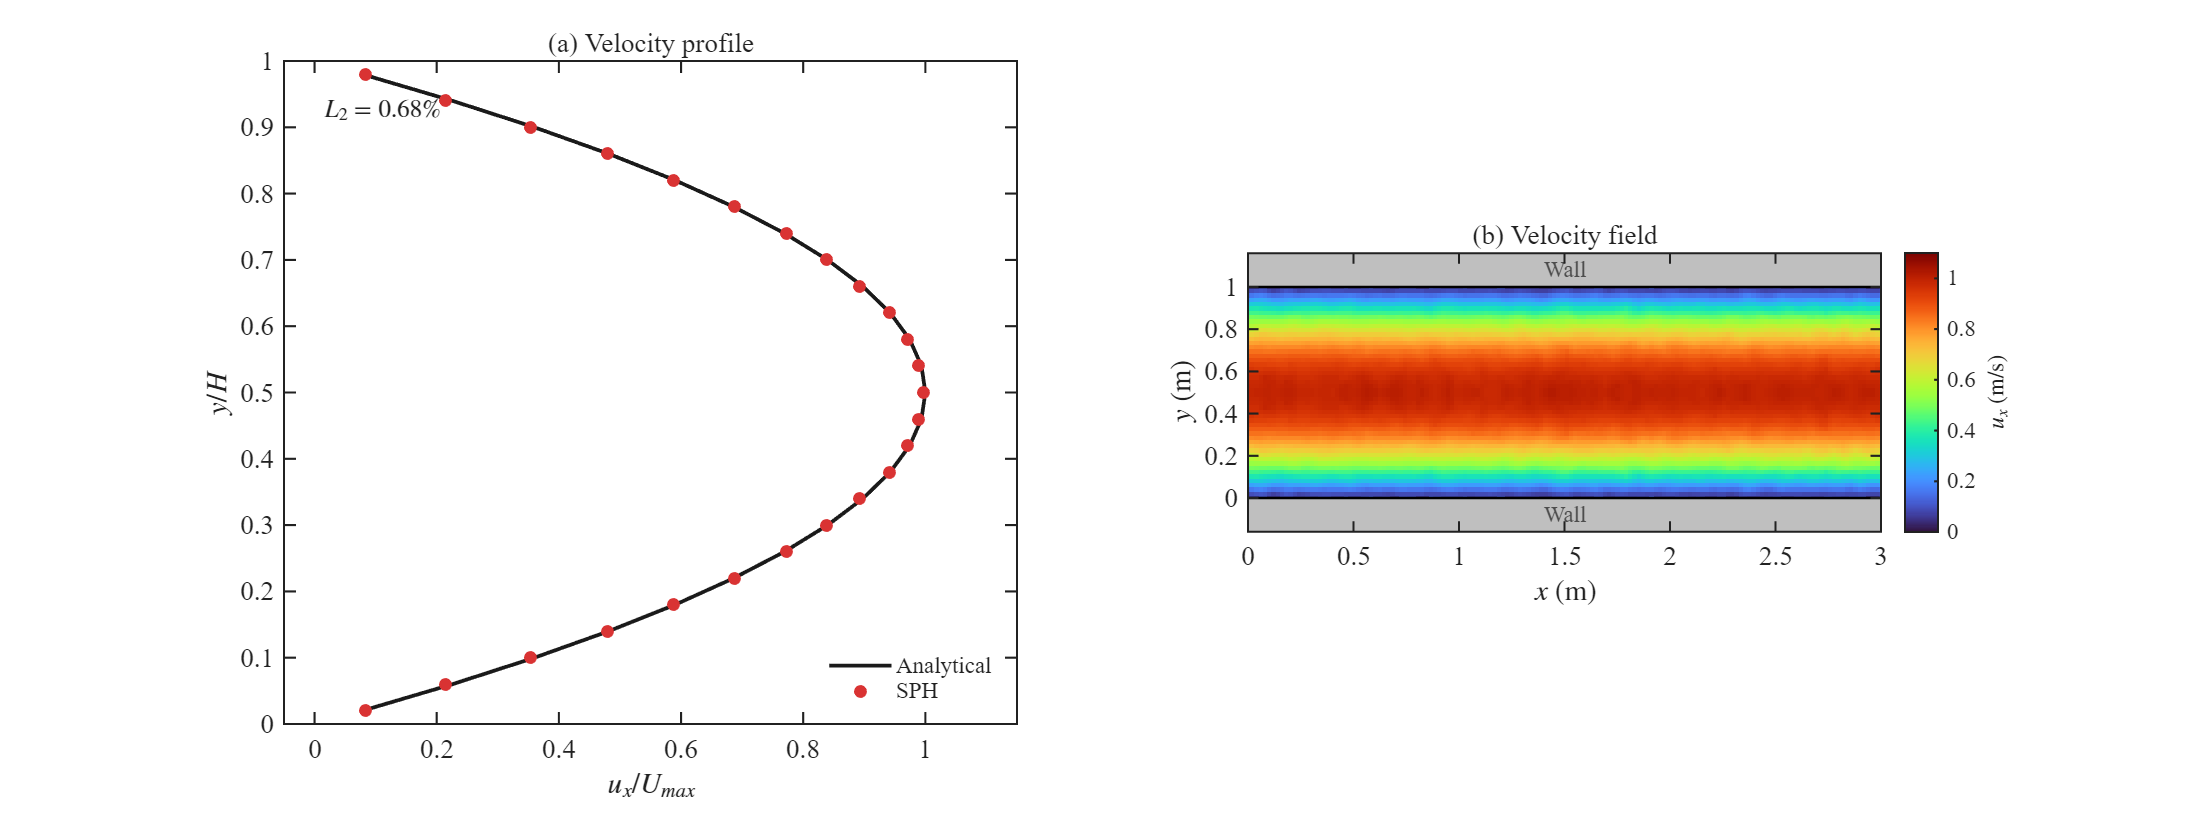
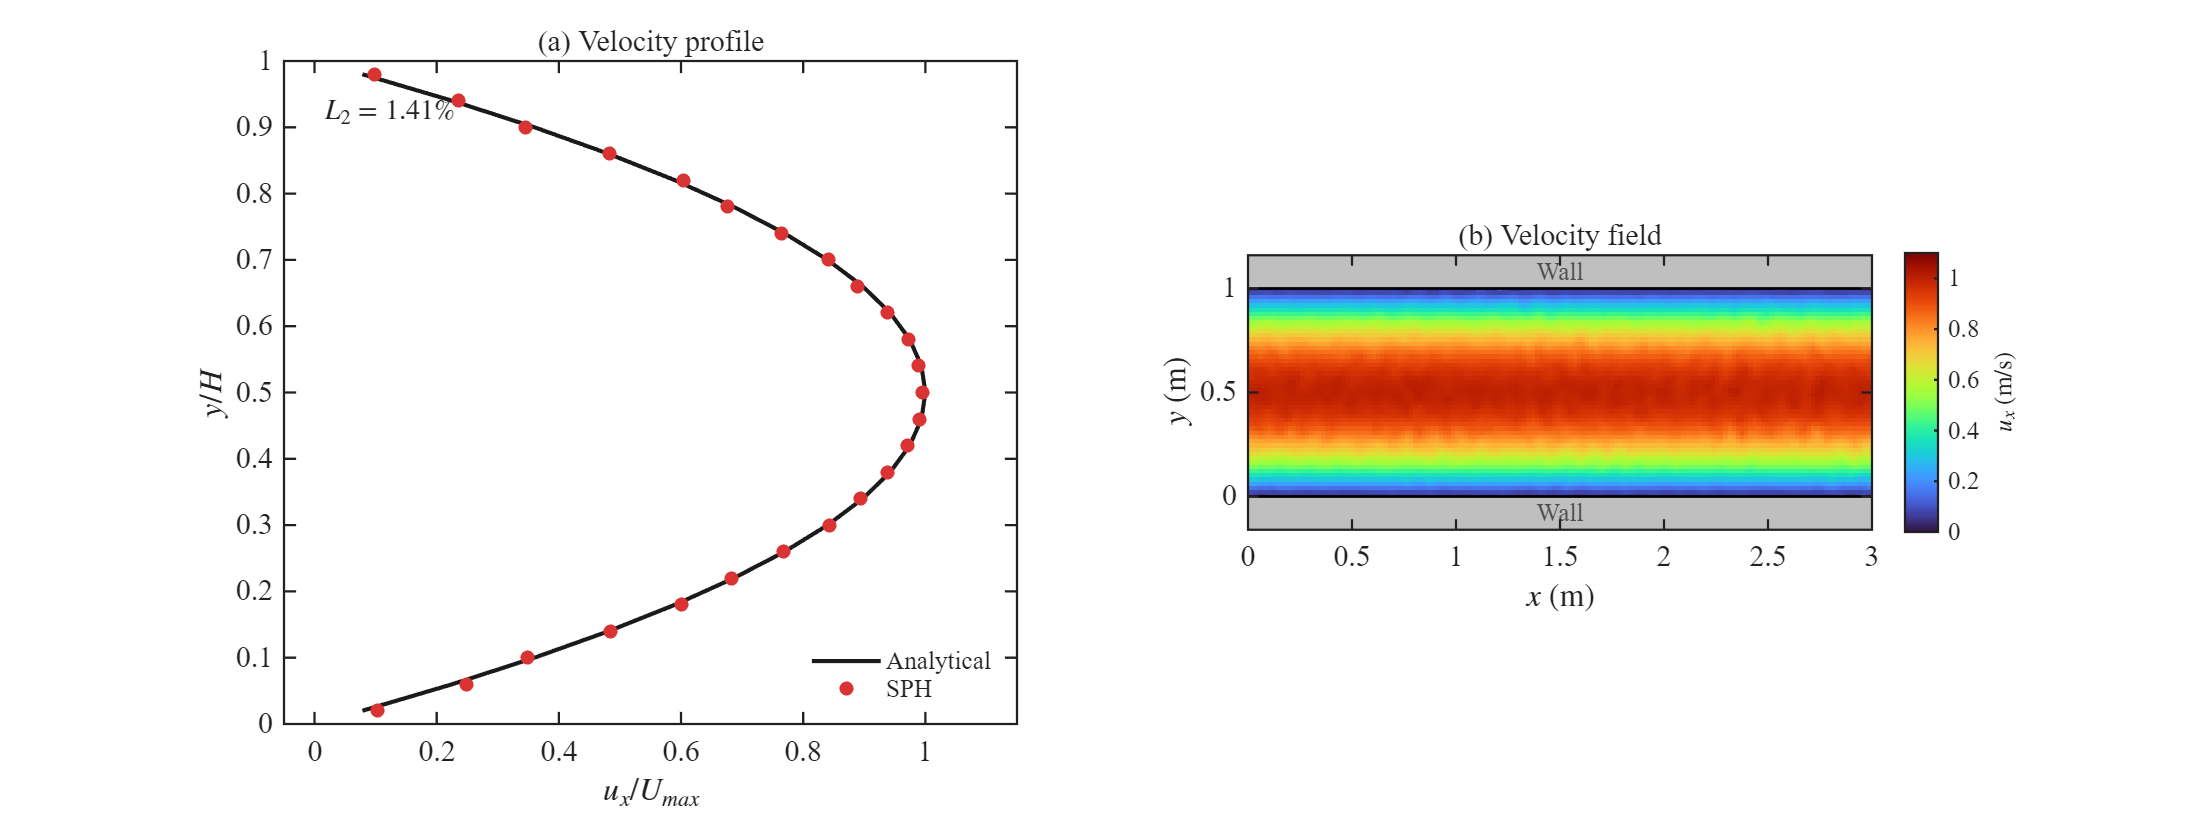
feat(poiseuille): 增加可切换壁面边界模式与中截面剖面演化输出
变更内容：
- 在 MATLAB 主流程中增加 bc_mode 配置，支持方案 B 与方案 D 两种壁面边界处理。
- 在 MEX 粘性力计算中增加 Neumann 边界相关可选参数与对应分支。
- 新增中间截面速度剖面演化图输出，并调整部分仿真配置与忽略规则。

风险与影响：
- 影响 MATLAB 主求解脚本、MEX 粘性力实现和仿真配置。
- 当前 GitNexus 检测为 medium risk，影响集中在积分与粘性力计算流程。

diff --git a/SPH_Poiseuille.m b/SPH_Poiseuille.m
@@ -18,6 +18,7 @@ mex_dir = fullfile(project_dir, 'mex');         % MEX C 源码目录
 config_path = fullfile(project_dir, 'config.ini');
 restart_path = fullfile(project_dir, 'restart.mat');
 result_png = fullfile(project_dir, 'SPH_Poiseuille_result.png');
+profile_evolution_png = fullfile(project_dir, 'SPH_centerline_profile_evolution.png');
 
 if ~exist(build_dir, 'dir')
     mkdir(build_dir);
@@ -47,6 +48,11 @@ t_end = get_ini_numeric(cfg, 'simulation', 'end_time');
 output_interval = get_ini_numeric(cfg, 'simulation', 'output_interval');
 sort_interval = round(get_ini_numeric(cfg, 'simulation', 'sort_interval'));
 restart_from_file = round(get_ini_numeric(cfg, 'simulation', 'restart_from_file'));
+bc_mode = get_ini_string(cfg, 'simulation', 'bc_mode');  % 'B' 或 'D'
+if ~ismember(bc_mode, {'B', 'D'})
+    error('bc_mode 必须为 B 或 D，当前值: %s', bc_mode);
+end
+fprintf('BC 模式: 方案%s\n', bc_mode);
 
 % 几何参数自动对齐：确保 DL/dp 和 DH/dp 为整数（周期边界 + 均匀粒子排列）
 DL_raw = DL;  DH_raw = DH;
@@ -174,15 +180,33 @@ end
 p(1:n_fluid) = p0 * (rho(1:n_fluid) ./ rho0 - 1.0);
 p(n_fluid+1:end) = 0.0;
 
-% 方案 B：pair-wise 测量 tau_num + PI 输出 delta_tau 叠加到 force_prior
+% 壁面切应力目标值（两种方案共用）
 tau_target = gravity_g * rho0 * DH / 2;  % 泊肃叶流壁面切应力解析值 [Pa]
-I_bottom = 0.0;         % 积分项（下壁面）
-I_top    = 0.0;         % 积分项（上壁面）
-I_max    = 2.0;         % 积分限幅
 tau_num_bottom = 0.0;   % 监控变量初始化
 tau_num_top    = 0.0;
-k_p = 0.5;              % PI 比例增益（delta_tau = k_p * e [Pa]，K_F≈1 故保守取 0.5）
-k_i = 0.025;            % PI 积分增益
+
+if strcmp(bc_mode, 'B')
+    % 方案 B：PI 控制器参数
+    I_bottom = 0.0;     % 积分项（下壁面）
+    I_top    = 0.0;     % 积分项（上壁面）
+    I_max    = 2.0;     % 积分限幅
+    k_p = 0.5;          % PI 比例增益
+    k_i = 0.025;        % PI 积分增益
+else
+    % 方案 D：无需 PI 参数，wall_vel 每步由 Adami 插值动态设定
+    I_bottom = 0.0; I_top = 0.0; k_p = 0.0; k_i = 0.0; I_max = 0.0;  % 占位，restart 兼容
+end
+
+% 槽道中间截面（x=DL/2）速度剖面演化记录：每个输出时刻保留一条 u(y)
+n_bins = max(20, round(DH / dp));
+mid_x = 0.5 * DL;
+mid_half_width = max(dp, h);
+profile_times = zeros(0, 1);
+mid_profile_u = NaN(n_bins, 0);
+[~, u_mid_init] = compute_mid_channel_profile( ...
+    pos(1:n_fluid, :), vel(1:n_fluid, 1), DL, DH, mid_x, mid_half_width, n_bins);
+profile_times(end + 1, 1) = t;
+mid_profile_u(:, end + 1) = u_mid_init;
 
 %% S6: 主循环（双层时间步进：外层对流步 + 内层声学步）
 % 外层：计算粘性力、传输修正、对流时间步长 Dt
@@ -208,14 +232,21 @@ while t < t_end - 1e-12
             mass, n_fluid, n_total, rho0, h, inv_sigma0);
 
         % 粘性力计算（含壁面无滑移镜像速度）
-        viscous_force = feval(physics_mex_name, 'viscous_force', ...
-            pair_i, pair_j, dx_ij, dy_ij, r_ij, dW_ij, ...
-            vel, Vol, B, mu, h, n_fluid, n_total, mass, wall_vel);
+        if strcmp(bc_mode, 'D')
+            viscous_force = feval(physics_mex_name, 'viscous_force', ...
+                pair_i, pair_j, dx_ij, dy_ij, r_ij, dW_ij, ...
+                vel, Vol, B, mu, h, n_fluid, n_total, mass, wall_vel, ...
+                pos, tau_target/mu, DH);
+        else
+            viscous_force = feval(physics_mex_name, 'viscous_force', ...
+                pair_i, pair_j, dx_ij, dy_ij, r_ij, dW_ij, ...
+                vel, Vol, B, mu, h, n_fluid, n_total, mass, wall_vel);
+        end
         force_prior = viscous_force;
         force_prior(1:n_fluid, 1) = force_prior(1:n_fluid, 1) + mass(1:n_fluid) * gravity_g;  % 叠加体积力
 
+        if strcmp(bc_mode, 'B')
         % === 方案 B：pair-wise tau 测量 + PI 输出 delta_tau 叠加 force_prior ===
-        % 下壁面：识别流固粒子对（j 是壁面粒子且 y_j < 0）
         is_bottom = (pair_j > n_fluid) & (pos(pair_j, 2) < 0);
         i_b = pair_i(is_bottom);
         j_b = pair_j(is_bottom);
@@ -232,8 +263,6 @@ while t < t_end - 1e-12
         else
             tau_num_bottom = 0.0;
         end
-
-        % 上壁面：识别流固粒子对（j 是壁面粒子且 y_j > DH）
         is_top = (pair_j > n_fluid) & (pos(pair_j, 2) > DH);
         i_t = pair_i(is_top);
         j_t = pair_j(is_top);
@@ -250,21 +279,54 @@ while t < t_end - 1e-12
         else
             tau_num_top = 0.0;
         end
-
-        % PI 更新：下壁面 → delta_tau_b [Pa] → 叠加到近壁流体粒子 force_prior
         e_b = tau_target - tau_num_bottom;
         I_bottom = max(-I_max, min(I_max, I_bottom + e_b * Dt));
         delta_tau_b = k_p * e_b + k_i * I_bottom;
         near_bottom = pos(1:n_fluid, 2) < 2*h;
         force_prior(near_bottom, 1) = force_prior(near_bottom, 1) + delta_tau_b * dp^2;
-
-        % PI 更新：上壁面 → delta_tau_t [Pa] → 叠加到近壁流体粒子 force_prior
         e_t = tau_target - tau_num_top;
         I_top = max(-I_max, min(I_max, I_top + e_t * Dt));
         delta_tau_t = k_p * e_t + k_i * I_top;
         near_top = pos(1:n_fluid, 2) > DH - 2*h;
         force_prior(near_top, 1) = force_prior(near_top, 1) + delta_tau_t * dp^2;
         % === 方案 B 结束 ===
+
+        else
+        % === 方案 D：wall_vel 置零，MEX 内部用显式镜像+梯度修正 ===
+        % u_ghost = -v_i ± G*d_j，u_wall=0 精确锚定，梯度通过虚粒子施加
+        wall_vel(n_fluid+1:end, :) = 0;
+        % 监控：pair-wise 测量下壁面和上壁面 tau_num（仅用于输出）
+        is_bottom = (pair_j > n_fluid) & (pos(pair_j, 2) < 0);
+        i_b = pair_i(is_bottom); j_b = pair_j(is_bottom);
+        if ~isempty(i_b)
+            r_b = r_ij(is_bottom); dW_b = dW_ij(is_bottom);
+            dx_b = dx_ij(is_bottom); dy_b = dy_ij(is_bottom);
+            ex_b = dx_b./r_b; ey_b = dy_b./r_b;
+            eBe_b = ex_b.*(B(i_b,1).*ex_b+B(i_b,2).*ey_b) + ...
+                    ey_b.*(B(i_b,3).*ex_b+B(i_b,4).*ey_b);
+            f_pair_b = 4*mu.*eBe_b.*dW_b.*Vol(j_b).*(vel(i_b,1)-wall_vel(j_b,1)) ...
+                       ./(r_b+0.01*h).*Vol(i_b);
+            tau_num_bottom = -sum(f_pair_b) / DL;
+        else
+            tau_num_bottom = 0.0;
+        end
+        is_top = (pair_j > n_fluid) & (pos(pair_j, 2) > DH);
+        i_t = pair_i(is_top); j_t = pair_j(is_top);
+        if ~isempty(i_t)
+            r_t = r_ij(is_top); dW_t = dW_ij(is_top);
+            dx_t = dx_ij(is_top); dy_t = dy_ij(is_top);
+            ex_t = dx_t./r_t; ey_t = dy_t./r_t;
+            eBe_t = ex_t.*(B(i_t,1).*ex_t+B(i_t,2).*ey_t) + ...
+                    ey_t.*(B(i_t,3).*ex_t+B(i_t,4).*ey_t);
+            f_pair_t = 4*mu.*eBe_t.*dW_t.*Vol(j_t).*(vel(i_t,1)-wall_vel(j_t,1)) ...
+                       ./(r_t+0.01*h).*Vol(i_t);
+            tau_num_top = sum(f_pair_t) / DL;
+        else
+            tau_num_top = 0.0;
+        end
+        e_b = tau_target - tau_num_bottom;  % 仅用于日志
+        % === 方案 D 结束 ===
+        end
 
         % 传输速度修正（抑制张力不稳定性）
         pos = feval(physics_mex_name, 'transport_correction', ...
@@ -307,10 +369,15 @@ while t < t_end - 1e-12
             relaxation_time = relaxation_time + dt;
         end
 
-        % 对流步结束：周期性边界 + 壁面防穿透 + 壁面速度重置（wall_vel 恒零，无滑移）
+        % 对流步结束：周期性边界 + 壁面防穿透
         [pos, ~] = periodic_bounding(pos, n_fluid, DL, periodic_buffer);
         pos = bounding_from_wall(pos, n_fluid, DH, dp);
-        vel(n_fluid+1:end, :) = wall_vel(n_fluid+1:end, :);
+        % 方案B：wall_vel 恒零，重置虚粒子速度；方案D：wall_vel 已动态设定，保持不变
+        if strcmp(bc_mode, 'B')
+            vel(n_fluid+1:end, :) = zeros(n_wall, 2);
+        else
+            vel(n_fluid+1:end, :) = wall_vel(n_fluid+1:end, :);
+        end
 
         % 定期按空间网格排序粒子（提升缓存命中率）
         if mod(step, sort_interval) == 0 && step ~= 1
@@ -325,8 +392,13 @@ while t < t_end - 1e-12
             vmax = max(vecnorm(vel(1:n_fluid, :), 2, 2));
             fprintf('step=%d, t=%.6f/%.6f, Dt=%.4e, pairs=%d, vmax=%.4f\n', ...
                 step, t, t_end, Dt, numel(pair_i), vmax);
-            fprintf('  tau_bot=%.4f, tau_top=%.4f, tau_target=%.4f, e_b=%.4f\n', ...
-                tau_num_bottom, tau_num_top, tau_target, e_b);
+            if strcmp(bc_mode, 'B')
+                fprintf('  [B] tau_bot=%.4f, tau_top=%.4f, tau_target=%.4f, e_b=%.4f\n', ...
+                    tau_num_bottom, tau_num_top, tau_target, e_b);
+            else
+                fprintf('  [D] tau_bot=%.4f, tau_top=%.4f, tau_target=%.4f, e_b=%.4f\n', ...
+                    tau_num_bottom, tau_num_top, tau_target, e_b);
+            end
         end
     end
 
@@ -346,6 +418,11 @@ while t < t_end - 1e-12
         'k_p', k_p, ...
         'k_i', k_i);
     save_restart(restart_path, config_signature, state);
+
+    [~, u_mid_now] = compute_mid_channel_profile( ...
+        pos(1:n_fluid, :), vel(1:n_fluid, 1), DL, DH, mid_x, mid_half_width, n_bins);
+    profile_times(end + 1, 1) = t;
+    mid_profile_u(:, end + 1) = u_mid_now;
 end
 
 %% S7: 后处理与验证
@@ -354,7 +431,6 @@ fluid_pos = pos(1:n_fluid, :);
 fluid_pos(:, 1) = mod(fluid_pos(:, 1), DL);
 fluid_vel = vel(1:n_fluid, :);
 
-n_bins = max(20, round(DH / dp));
 [y_mid, u_mean] = compute_binned_profile_mean(fluid_pos(:, 2), fluid_vel(:, 1), 0.0, DH, n_bins);
 % 无滑移 BC 下解析解：标准抛物线
 u_exact = gravity_g / (2.0 * nu) .* y_mid .* (DH - y_mid);
@@ -478,6 +554,53 @@ title(ax2, '(b) Velocity field', 'FontName', 'Times New Roman', ...
 saveas(fig, result_png);
 fprintf('结果图已保存: %s\n', result_png);
 
+% --- 中间截面速度剖面演化图（每个时间一条剖面） ---
+fig_evo = figure('Color', 'w', 'Position', [140, 140, 760, 560], 'Renderer', 'painters');
+ax_evo = axes(fig_evo);
+hold(ax_evo, 'on');
+
+tvals = profile_times(:)';
+n_profiles = numel(tvals);
+line_cmap = parula(max(n_profiles, 2));
+
+for k = 1:n_profiles
+    u_k = mid_profile_u(:, k) / U_max;
+    valid_k = ~isnan(u_k);
+    if any(valid_k)
+        plot(ax_evo, u_k(valid_k), y_mid(valid_k) / DH, '-', ...
+            'Color', line_cmap(k, :), 'LineWidth', 1.0);
+    end
+end
+
+plot(ax_evo, u_norm_exact, y_norm, '--', 'Color', [0.1 0.1 0.1], 'LineWidth', 1.6);
+hold(ax_evo, 'off');
+
+set(ax_evo, 'FontName', 'Times New Roman', 'FontSize', 13, 'LineWidth', 1.0, ...
+    'TickDir', 'in', 'TickLength', [0.015 0.015], 'Box', 'on');
+xlabel(ax_evo, '$u_x / U_{max}$', 'Interpreter', 'latex', 'FontSize', 14);
+ylabel(ax_evo, '$y / H$', 'Interpreter', 'latex', 'FontSize', 14);
+xlim(ax_evo, [-0.05, 1.15]);
+ylim(ax_evo, [0, 1]);
+title(ax_evo, '(c) Mid-channel profile evolution', 'FontName', 'Times New Roman', ...
+    'FontSize', 13, 'FontWeight', 'normal');
+
+colormap(ax_evo, line_cmap);
+t_min = min(tvals);
+t_max = max(tvals);
+if t_max <= t_min
+    t_max = t_min + 1.0;
+end
+caxis(ax_evo, [t_min, t_max]);
+cb_evo = colorbar(ax_evo);
+cb_evo.Label.String = '$t$ (s)';
+cb_evo.Label.Interpreter = 'latex';
+cb_evo.Label.FontSize = 12;
+set(cb_evo, 'FontName', 'Times New Roman', 'FontSize', 11, ...
+    'TickDirection', 'in', 'LineWidth', 1.0);
+
+saveas(fig_evo, profile_evolution_png);
+fprintf('中间截面剖面演化图已保存: %s\n', profile_evolution_png);
+
 %% Local Functions
 function ensure_mex_compiled(src_path, out_name, build_dir)
     if ~exist(src_path, 'file')
@@ -568,6 +691,20 @@ function cfg = parse_ini(filename)
             cfg.(section).(key) = val_raw;
         end
     end
+end
+
+function value = get_ini_string(cfg, section, key)
+    if ~isfield(cfg, section)
+        error('缺少段: [%s]', section);
+    end
+    if ~isfield(cfg.(section), key)
+        error('缺少键: [%s].%s', section, key);
+    end
+    value = cfg.(section).(key);
+    if ~ischar(value)
+        value = num2str(value);
+    end
+    value = strtrim(value);
 end
 
 function value = get_ini_numeric(cfg, section, key)
@@ -686,6 +823,21 @@ function [y_mid, u_mean] = compute_binned_profile_mean(y_values, u_values, y_min
     cnt_u = accumarray(bin_id(~isnan(bin_id)), 1, [n_bins, 1], @sum, 0);
     u_mean = sum_u ./ max(cnt_u, 1);
     u_mean(cnt_u == 0) = NaN;
+end
+
+function [y_mid, u_mean] = compute_mid_channel_profile(pos, u_x, DL, DH, mid_x, half_width, n_bins)
+% 提取 x=mid_x 附近竖向切片上的 u(y) 速度剖面
+    x_wrap = mod(pos(:, 1), DL);
+    dx_mid = abs(x_wrap - mid_x);
+    dx_mid = min(dx_mid, DL - dx_mid);
+    is_mid = (dx_mid <= half_width);
+
+    if ~any(is_mid)
+        [y_mid, u_mean] = compute_binned_profile_mean([], [], 0.0, DH, n_bins);
+        return;
+    end
+
+    [y_mid, u_mean] = compute_binned_profile_mean(pos(is_mid, 2), u_x(is_mid), 0.0, DH, n_bins);
 end
 
 function save_restart(restart_path, config_signature, state)

diff --git a/mex/sph_physics_mex.c b/mex/sph_physics_mex.c
@@ -409,9 +409,14 @@ static void mode_viscous_force(int nlhs, mxArray *plhs[], int nrhs, const mxArra
     double *acc_x;
     double *acc_y;
     int k;  /* Changed from mwSize to int for OpenMP compatibility */
+    /* 方案D可选参数：pos[n_total×2], G=tau/mu, DH */
+    int use_neumann = 0;
+    const double *pos_arr = NULL;
+    double G_neumann = 0.0;
+    double DH_neumann = 0.0;
 
-    require_count(nrhs == 16, "SPH:Physics:viscous:nrhs",
-                  "viscous_force expects 16 inputs after mode.");
+    require_count(nrhs == 16 || nrhs == 19, "SPH:Physics:viscous:nrhs",
+                  "viscous_force expects 16 or 19 inputs after mode.");
     require_count(nlhs == 1, "SPH:Physics:viscous:nlhs",
                   "viscous_force expects 1 output.");
 
@@ -437,6 +442,14 @@ static void mode_viscous_force(int nlhs, mxArray *plhs[], int nrhs, const mxArra
                   "SPH:Physics:viscous:mass", "mass size mismatch.");
     require_count(mxGetM(prhs[15]) == (mwSize)n_total && mxGetN(prhs[15]) == 2,
                   "SPH:Physics:viscous:wallvel", "wall_vel size mismatch.");
+
+    /* 方案D：可选 Neumann BC 参数 */
+    if (nrhs == 19) {
+        pos_arr    = mxGetDoubles(prhs[16]);
+        G_neumann  = mxGetScalar(prhs[17]);
+        DH_neumann = mxGetScalar(prhs[18]);
+        use_neumann = 1;
+    }
 
     plhs[0] = mxCreateDoubleMatrix(n_total, 2, mxREAL);
     force_out = mxGetDoubles(plhs[0]);
@@ -509,10 +522,32 @@ static void mode_viscous_force(int nlhs, mxArray *plhs[], int nrhs, const mxArra
         } else {
             double eBe = ex * (b11i * ex + b12i * ey) + ey * (b21i * ex + b22i * ey);
             double denom = rk + 0.01 * h;
-            double dvx = vel_x[ii] - wall_vel_x[jj];
-            double dvy = vel_y[ii] - wall_vel_y[jj];
-            double coeff = 4.0 * eBe * mu * dWk * Vol[jj] / denom;
-
+            double dvx, dvy, coeff;
+            if (use_neumann) {
+                /* 方案D：显式 Adami 镜像 + Neumann 梯度修正，严格保证 u_wall=0
+                 * pos 列优先：pos_x=pos_arr[jj], pos_y=pos_arr[jj+n_total]
+                 * 下壁面(y_j<0)：u_ghost = -u_tilde - G*d_j
+                 *   → u_wall = (u_ghost+u_tilde)/2 = -G*d_j/2 ≈ 0（d_j→0时精确）
+                 *   实际用 u_ghost = -vel_x[ii] - G*d_j（u_tilde≈vel_x[ii]）
+                 * 上壁面(y_j>DH)：u_ghost = -u_tilde + G*d_j
+                 *   实际用 u_ghost = -vel_x[ii] + G*d_j
+                 * dvx = vel_x[ii] - u_ghost，coeff 用 2.0（dvx含2倍因子）
+                 */
+                double y_j = pos_arr[jj + n_total];
+                double d_j = (y_j < 0.0) ? -y_j : y_j - DH_neumann;
+                double u_ghost;
+                if (y_j < 0.0)
+                    u_ghost = -vel_x[ii] - G_neumann * d_j;
+                else
+                    u_ghost = -vel_x[ii] + G_neumann * d_j;
+                dvx = vel_x[ii] - u_ghost;
+                dvy = vel_y[ii] - wall_vel_y[jj];
+                coeff = 2.0 * eBe * mu * dWk * Vol[jj] / denom;
+            } else {
+                dvx = vel_x[ii] - wall_vel_x[jj];
+                dvy = vel_y[ii] - wall_vel_y[jj];
+                coeff = 4.0 * eBe * mu * dWk * Vol[jj] / denom;
+            }
             #ifdef _OPENMP
             #pragma omp atomic
             #endif
